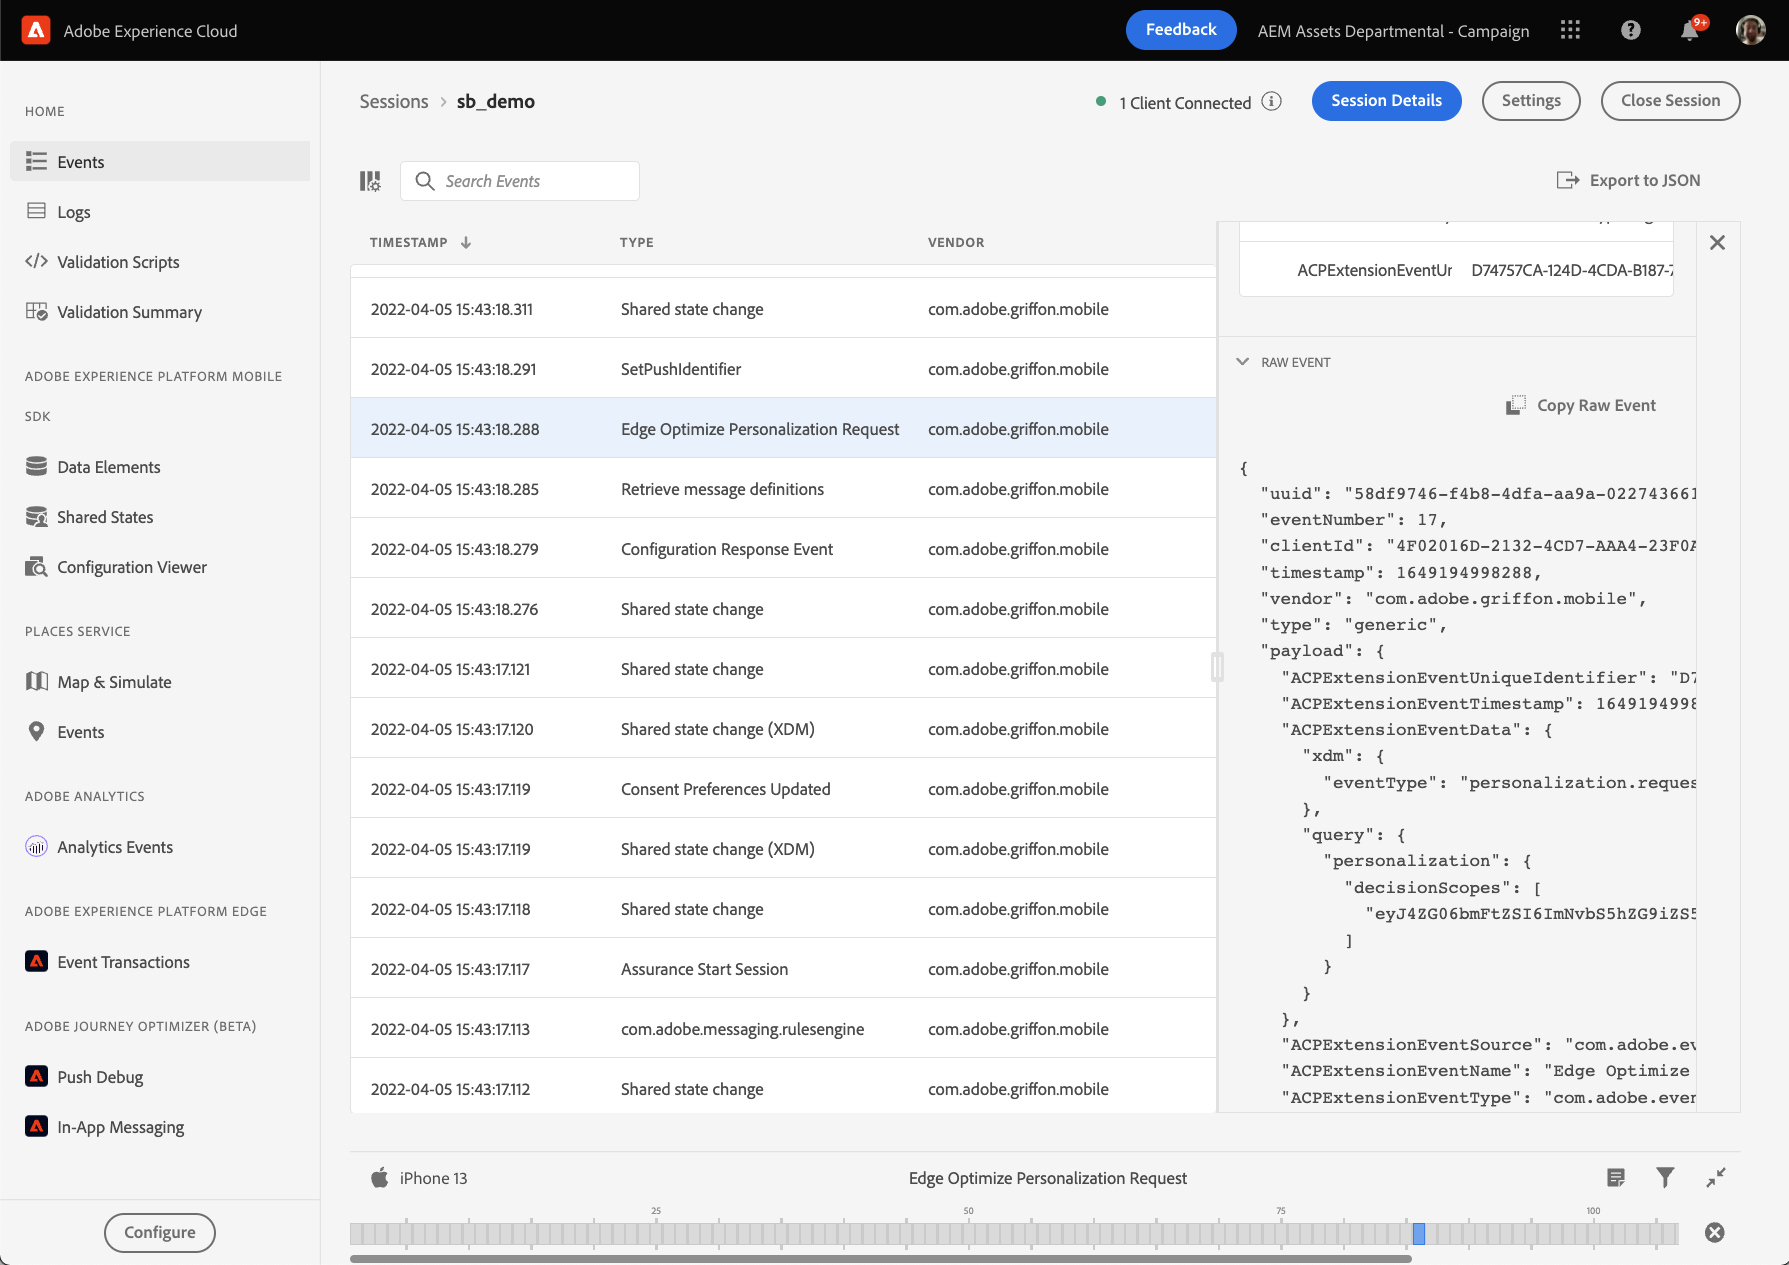
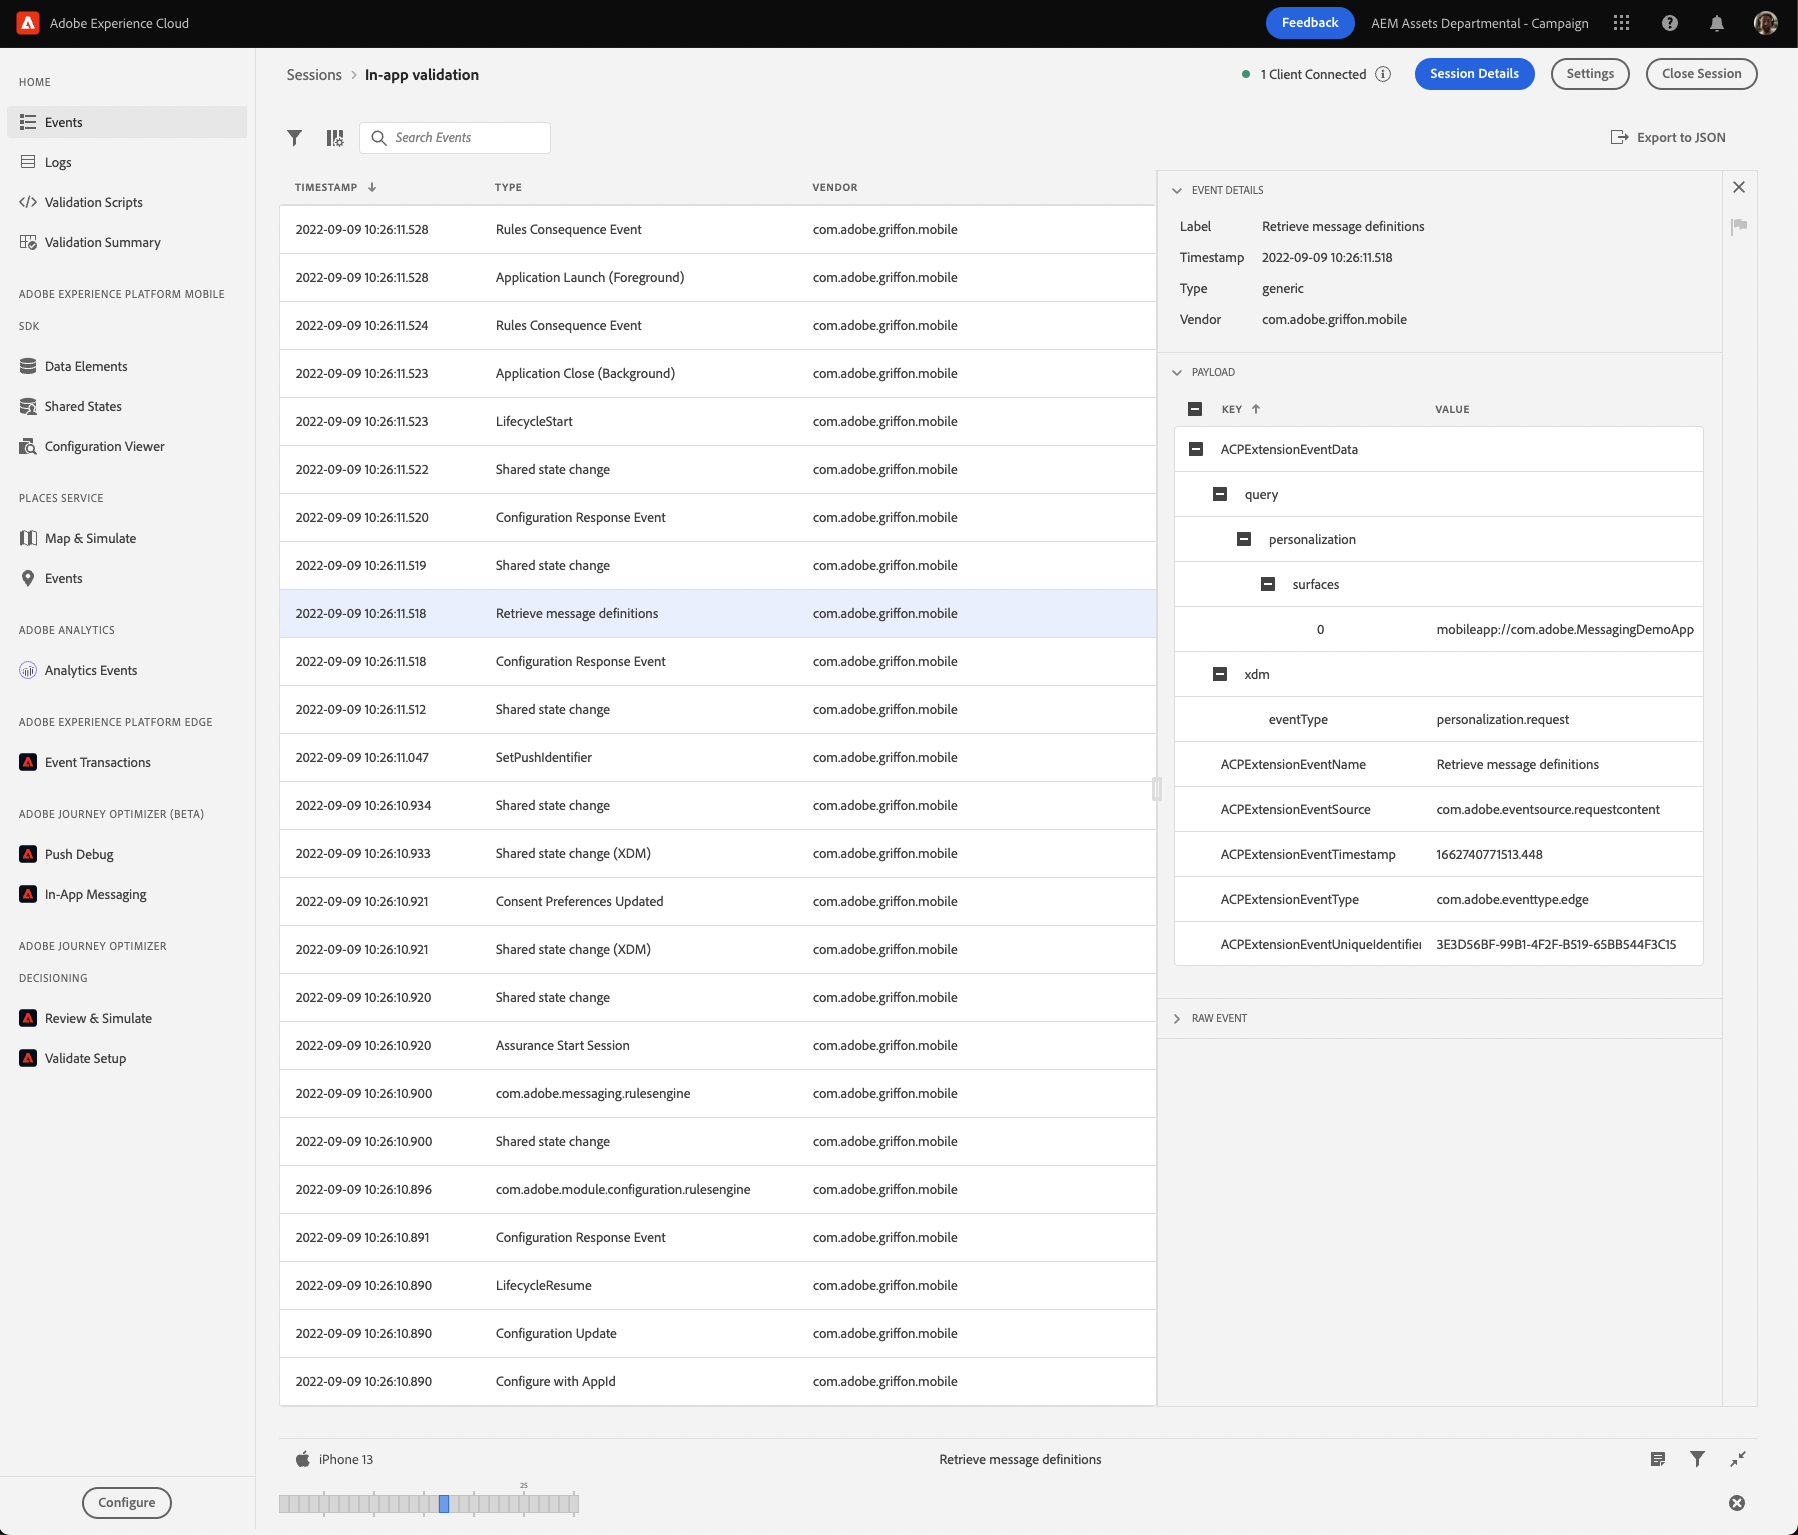
-update iam ios docs for inbound changes

diff --git a/beta/iam/guides/validate-messages-in-griffon.md b/beta/iam/guides/validate-messages-in-griffon.md
@@ -32,7 +32,6 @@ Ensure that your app has registered all necessary AEP SDK extensions by doing th
     | AEPEdgeConsent  | 1.0.0              | edgeconsent         | 1.0.1                  |
     | AEPEdgeIdentity | 1.0.1              | edgeidentity        | 1.0.0                  |
     | AEPMessaging    | 1.1.0              | messaging           | 1.2.0                  |
-    | AEPOptimize     | 1.0.0              | optimize            | 1.0.0                  |
 
 A sample view in the Assurance UI can be seen below:
 
@@ -48,18 +47,11 @@ Completing the following steps will validate that your app is making the necessa
 
 1. In the Assurance UI, click on **Events** in the left-rail navigation
 
-1. In the event list, select the event with type **Edge Optimize Personalization Request**
+1. In the event list, select the event with type **Retrieve message definitions**
 
     ![Edge Optimize Personalization Request](./../../../.gitbook/assets/message_request.png)
 
-1. Expand the **Payload** section in the right window and ensure the correct **decisionScope** is being used. The **decisionScope** is a base64 representation of a JSON payload that should contain your app's bundle identifier. You can use an [online base64 decoder](https://www.base64decode.org/) to decode the text. Verifying the request is using the correct **decisionScope** is important, since there may be multiple events with the same event type.
-
-The following example demonstrates validating a **decisionScope** for an app with bundle identifier `com.adobe.demosystem.dxdemo`:
-- **decisionScope** == `eyJ4ZG06bmFtZSI6ImNvbS5hZG9iZS5kZW1vc3lzdGVtLmR4ZGVtbyJ9`
-- Base64 decoded representation of **decisionScope** == `{"xdm:name":"com.adobe.demosystem.dxdemo"}`
-- `com.adobe.demosystem.dxdemo` matches the application's bundle identifier
-
-    ![Edge Optimize Personalization Request Payload](./../../../.gitbook/assets/message_request_payload.png)
+1. Expand the **Payload** section in the right window and ensure the correct **surface** is being used. The **surface** URI represents a collection of messages specific for your application and is identifiable based on its bundle identifier. The format for the URI will be `mobileapp://APP_BUNDLE_IDENTIFIER`.  From the screenshot above, the surface in use is `mobileapp://com.adobe.MessagingDemoApp`.
 
 ## Validate the event containing a message definition response
 
@@ -75,15 +67,15 @@ Complete the following steps to validate a response containing in-app messages:
 
     ![AEP Response Event Handle](./../../../.gitbook/assets/message_response.png)
 
-1. Expand the **Payload** section in the right window and continue down the tree until you find the **items** array. The full path to **items** is:
+1. Expand the **Payload** section in the right window. Each entry in the **payload** array contains the rule for a single in-app message that has been previously published in AJO and is now live. The full path to find a message definition is:
 
     ```
-    ACPExtensionEventData.payload.0.items
+    ACPExtensionEventData.payload.N.items.0.data.content
     ```
 
-    This array contains an entry for each of this app's published messages. As shown in the screenshot below, the message is fully defined in the **content** property of each item's **data** object:
-
-    ![AEP Response Event Handle Payload](./../../../.gitbook/assets/message_response_payload.png)
+    To find definitions for other live in-app messages, follow the above path for each object in the **payload** array.
+    
+    ![AEP Response Event Handle Payload](./../../assets/message_response_payload.png)
 
 ## Use the In-App Messaging Assurance UI plugin
 
@@ -122,7 +114,7 @@ Using the IAM plugin you can do the following for each message downloaded by the
 
 **A:** Ensure that each required extension is linked to your project and registered by `MobileCore`. For more information, please read the [Mobile Core API reference](./../../../foundation-extensions/mobile-core/mobile-core-api-reference.md#registerextensions).
 
-### Q: Why can't I find an event named `Edge Optimize Personalization Request`?
+### Q: Why can't I find an event named `Retrieve message definitions`?
 
 **A:** Ensure that each of the required extensions is at the minimum required version.
 

diff --git a/beta/iam/guides/how-to-messaging-delegate.md b/beta/iam/guides/how-to-messaging-delegate.md
@@ -67,27 +67,27 @@ public protocol MessagingDelegate {
     /// Invoked when any message is displayed
     /// - Parameters:
     ///     - message: UIMessaging message that is being displayed
-    @objc
+    @objc(onShow:)
     func onShow(message: Showable)
 
     /// Invoked when any message is dismissed
     /// - Parameters:
     ///     - message: UIMessaging message that is being dismissed
-    @objc
+    @objc(onDismiss:)
     func onDismiss(message: Showable)
 
     /// Used to find whether messages should be shown or not
     /// - Parameters:
     ///     - message: UIMessaging message that is about to get displayed
     /// - Returns: true if the message should be shown else false
-    @objc
+    @objc(shouldShowMessage:)
     func shouldShowMessage(message: Showable) -> Bool
 
     /// Called when `message` loads a URL
     /// - Parameters:
     ///     - url: the `URL` being loaded by the `message`
     ///     - message: the Message loading a `URL`
-    @objc
+    @objc(urlLoaded:byMessage:)
     optional func urlLoaded(_ url: URL, byMessage message: Showable)
 }
 ```
@@ -354,6 +354,13 @@ public boolean shouldShowMessage(FullscreenMessage fullscreenMessage) {
 
 {% endtab %}
 {% endtabs %}
+
+#### Examples
+
+The test apps in AEPMessaging GitHub repository demonstrate using a `MessagingDelegate`:
+
+* [Swift](https://github.com/adobe/aepsdk-messaging-ios/tree/inbound-changes/TestApps/MessagingDemoApp)
+* [Objective-c](https://github.com/adobe/aepsdk-messaging-ios/tree/inbound-changes/TestApps/MessagingDemoAppObjC)
 
 #### Further reading
 

diff --git a/beta/iam/setup-sdk.md b/beta/iam/setup-sdk.md
@@ -11,7 +11,6 @@ The example below shows how to point to the `staging` branch in a Cocoapods `Pod
 
 ```
 pod 'AEPMessaging', :git => 'https://github.com/adobe/aepsdk-messaging-ios.git', :branch => 'staging'
-pod 'AEPOptimize', :git => 'https://github.com/adobe/aepsdk-optimize-ios.git', :branch => 'staging'
 ```
 
 {% endtab %}
@@ -64,7 +63,6 @@ import AEPMessaging
 import AEPCore
 import AEPEdge
 import AEPEdgeIdentity
-import AEPOptimize
 
 class AppDelegate: UIResponder, UIApplicationDelegate {
     func application(_ application: UIApplication, didFinishLaunchingWithOptions _: [UIApplication.LaunchOptionsKey: Any]?) -> Bool {
@@ -75,8 +73,7 @@ class AppDelegate: UIResponder, UIApplicationDelegate {
         let extensions = [
             Messaging.self,
             AEPEdgeIdentity.Identity.self,
-            Edge.self,
-            Optimize.self
+            Edge.self
         ]
 
         MobileCore.registerExtensions(extensions) {            

diff --git a/beta/iam/guides/how-to-call-native-from-javascript.md b/beta/iam/guides/how-to-call-native-from-javascript.md
@@ -123,3 +123,10 @@ When the user clicks the button inside of this in-app message, the handler confi
 ```text
 JavaScript body passed to native callback: native callbacks are cool!
 ```
+
+#### Examples
+
+The test apps in AEPMessaging GitHub repository demonstrate using a `MessagingDelegate`:
+
+* [Swift](https://github.com/adobe/aepsdk-messaging-ios/tree/inbound-changes/TestApps/MessagingDemoApp)
+* [Objective-c](https://github.com/adobe/aepsdk-messaging-ios/tree/inbound-changes/TestApps/MessagingDemoAppObjC)

diff --git a/beta/iam/guides/how-to-call-javascript-from-native.md b/beta/iam/guides/how-to-call-javascript-from-native.md
@@ -131,3 +131,10 @@ public boolean shouldShowMessage(FullscreenMessage fullscreenMessage) {
 
 {% endtab %}
 {% endtabs %}
+
+#### Examples
+
+The test apps in AEPMessaging GitHub repository demonstrate using a `MessagingDelegate`:
+
+* [Swift](https://github.com/adobe/aepsdk-messaging-ios/tree/inbound-changes/TestApps/MessagingDemoApp)
+* [Objective-c](https://github.com/adobe/aepsdk-messaging-ios/tree/inbound-changes/TestApps/MessagingDemoAppObjC)
